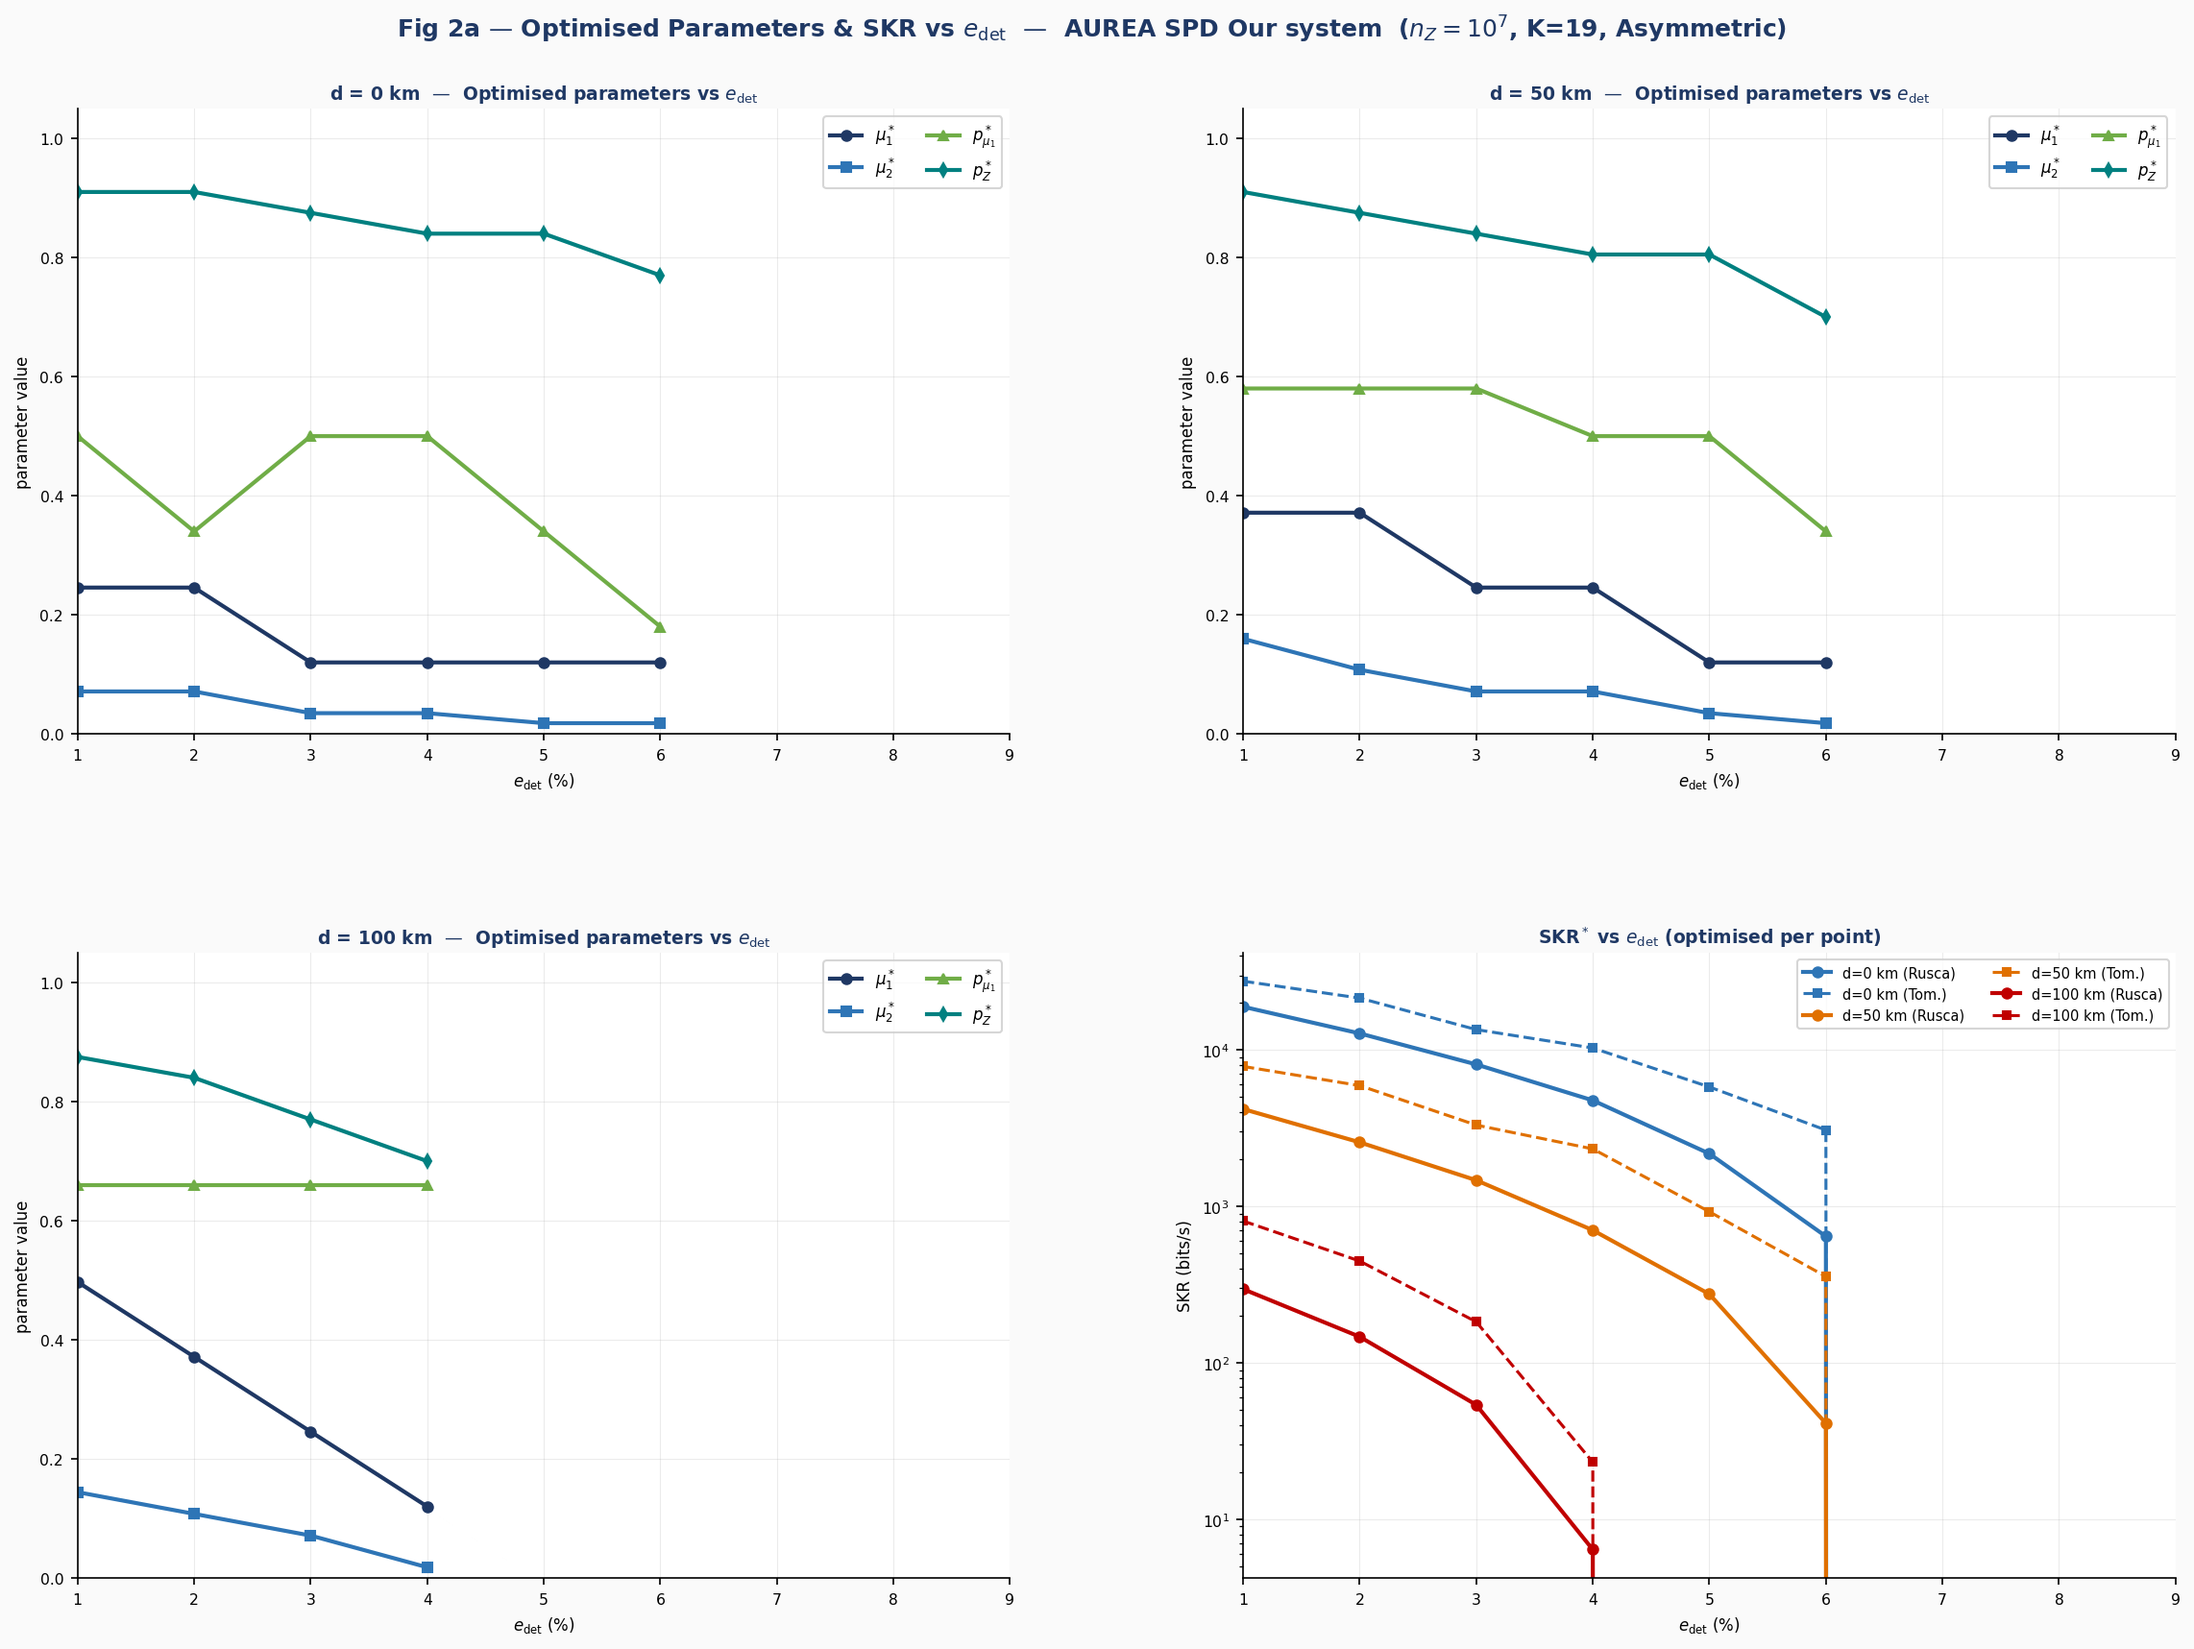
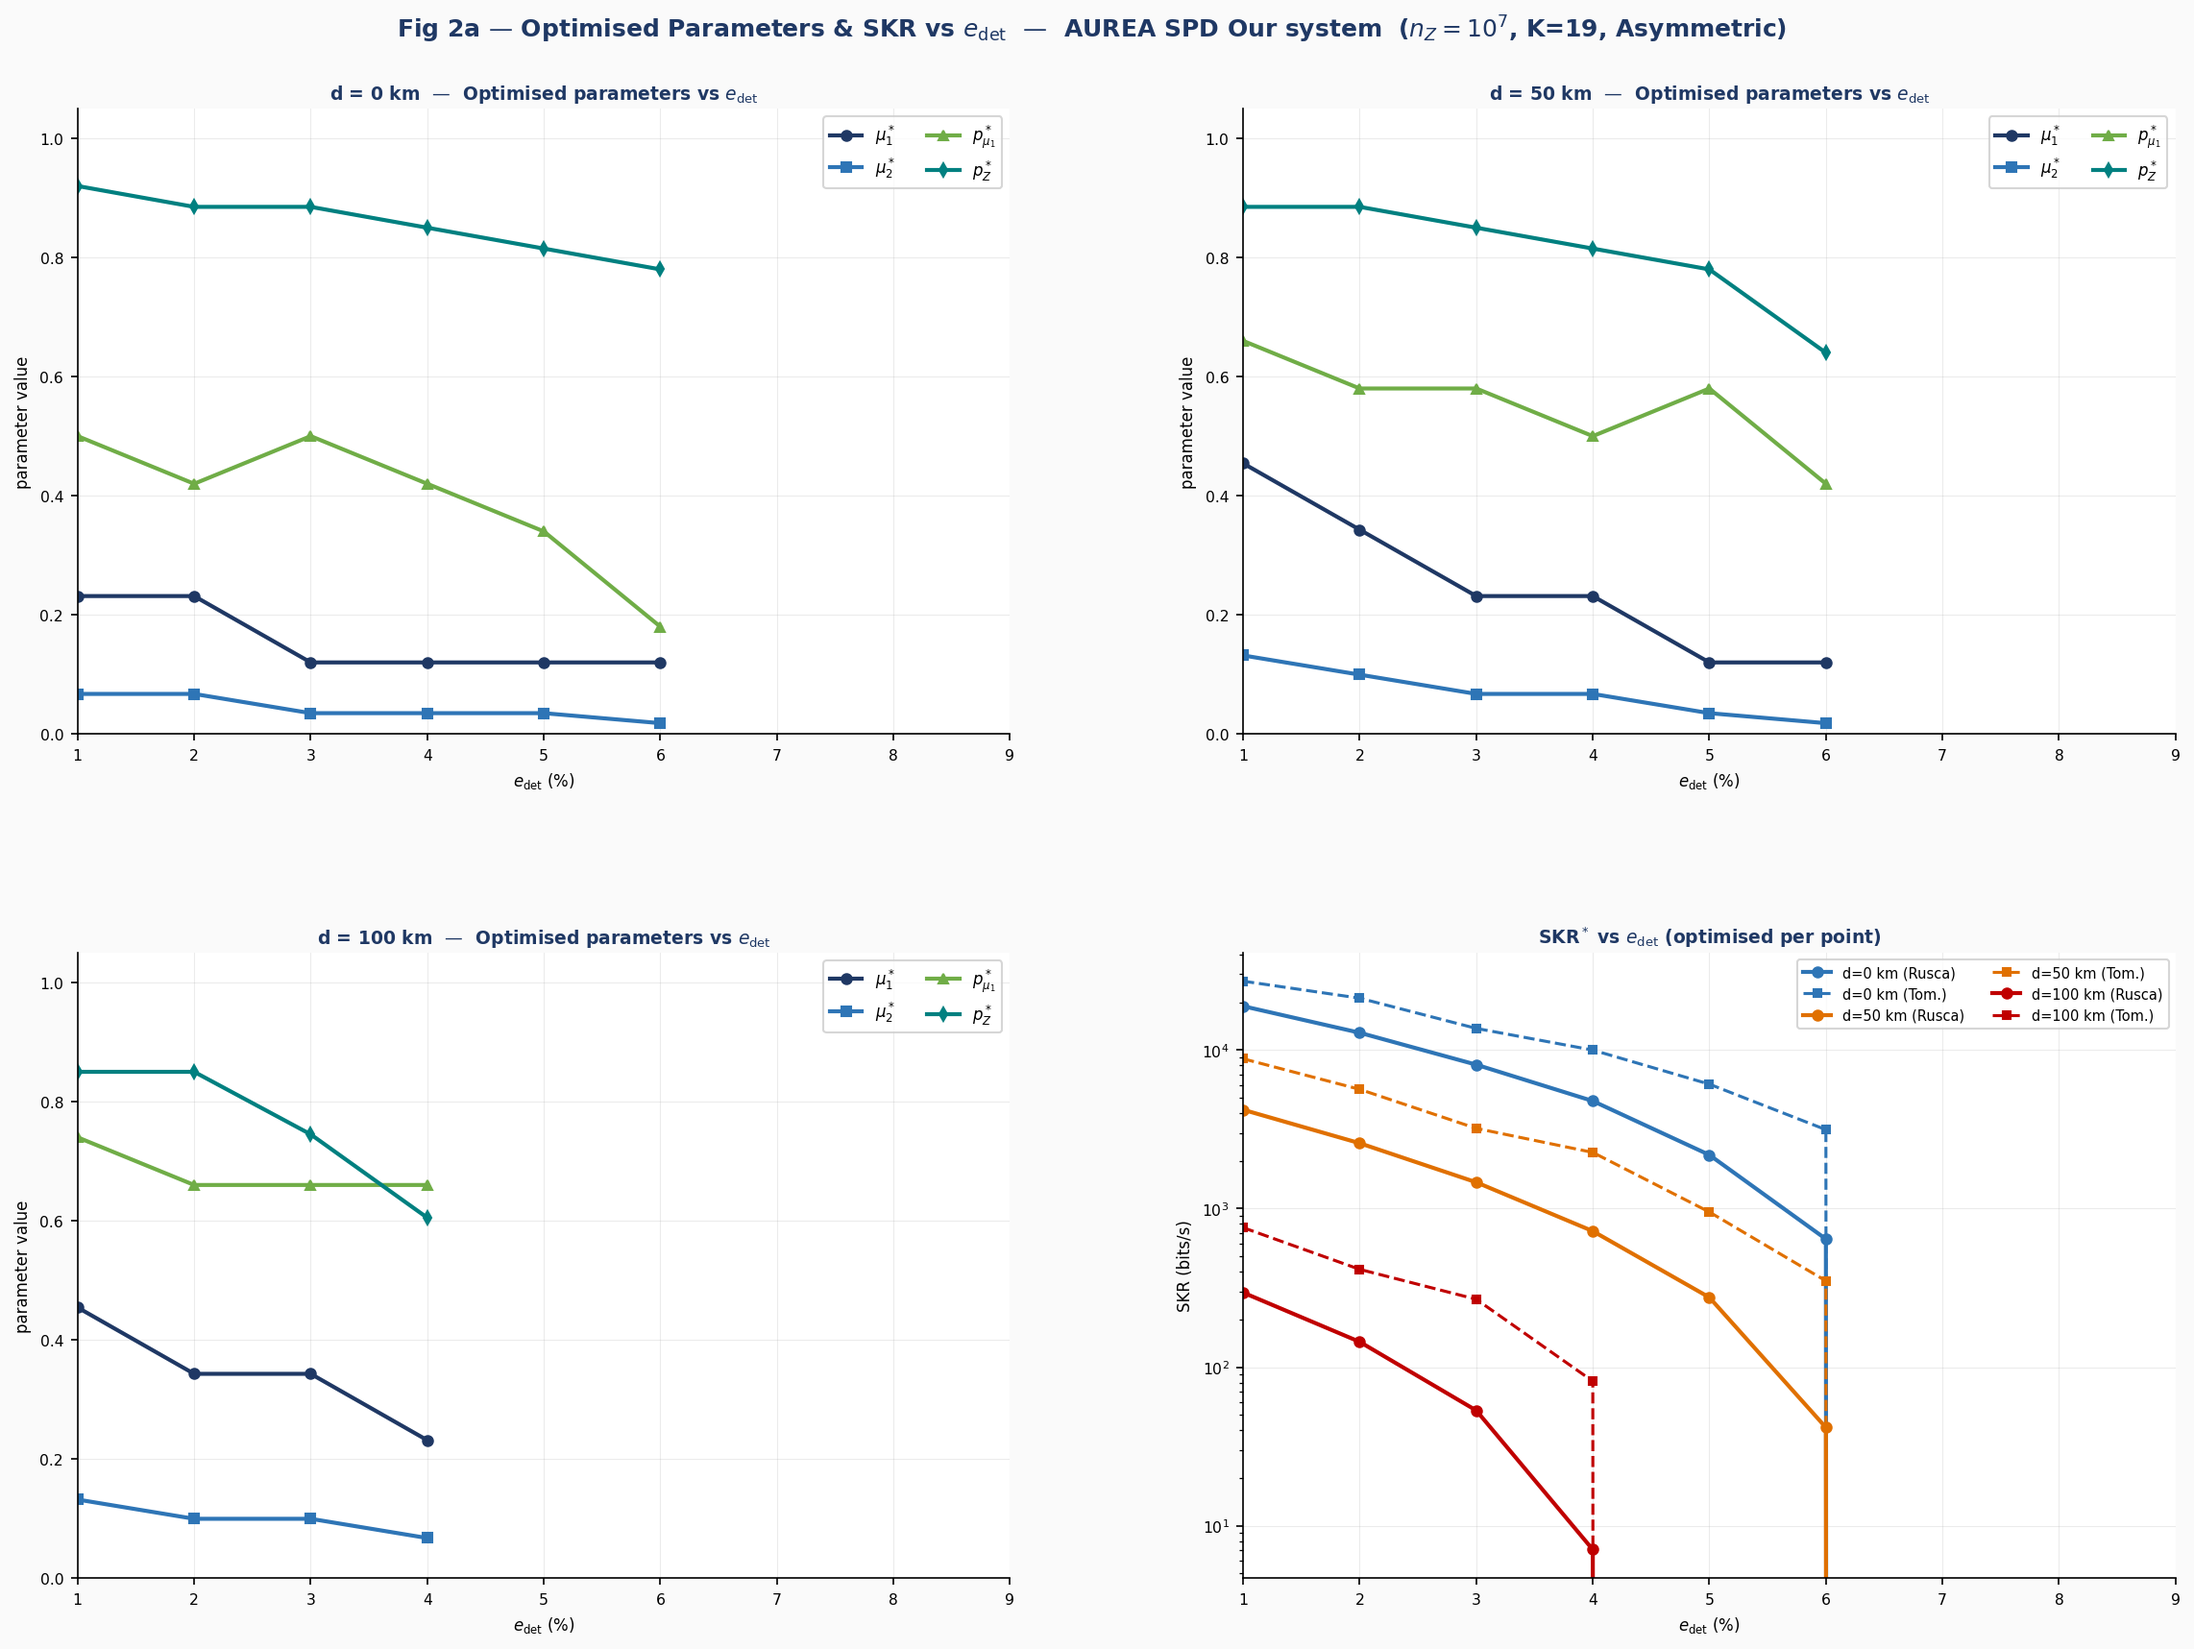
updated mu1_scan range, results 2a

diff --git a/qkd_1decoy_analysis_v13_compact.py b/qkd_1decoy_analysis_v13_compact.py
@@ -348,18 +348,23 @@ def compute_all(d_km, e_det=edet, p1=p1, pZ_in=None, mu1_in=None, mu2_in=None,
 
 # Coarsened grids for the (d x edet) cache
 GRIDS_CACHE = dict(
-    mu1_scan = np.linspace(0.12, 1.0, 8),
+    #mu1_scan = np.linspace(0.12, 1.0, 8),
+    #mu2_frac = np.linspace(0.15, 0.85, 6),
+    #pm1_scan = np.linspace(0.02, 0.90, 12),
+    #pZ_scan  = np.arange(0.70, 0.96, 0.035),
+    mu1_scan = np.linspace(0.12, 0.90, 8),
     mu2_frac = np.linspace(0.15, 0.85, 6),
     pm1_scan = np.linspace(0.02, 0.90, 12),
-    pZ_scan  = np.arange(0.70, 0.96, 0.035),
+    pZ_scan  = np.arange(0.50, 0.96, 0.035),
 )
 
 # Finer grids for legacy Fig 2 (per-distance optimisation at config edet)
 GRIDS_FIG2 = dict(
-    mu1_scan = np.linspace(0.12, 1.0, 10),
+    mu1_scan = np.linspace(0.12, 0.90, 10),
     mu2_frac = np.linspace(0.15, 0.85, 8),
     pm1_scan = np.linspace(0.02, 0.90, 20),
-    pZ_scan  = np.arange(0.70, 0.96, 0.02),
+    #pZ_scan  = np.arange(0.70, 0.96, 0.02),
+    pZ_scan  = np.arange(0.50, 0.96, 0.02),
 )
 
 
